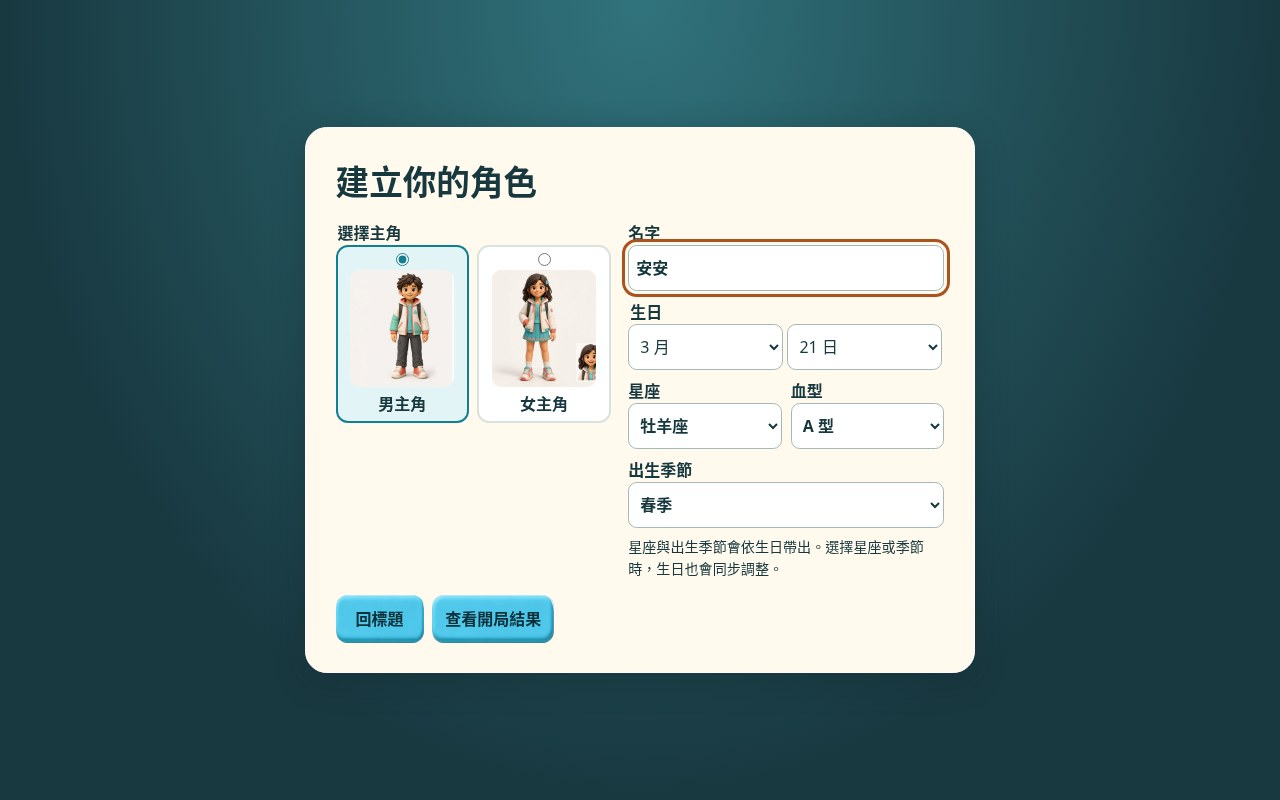
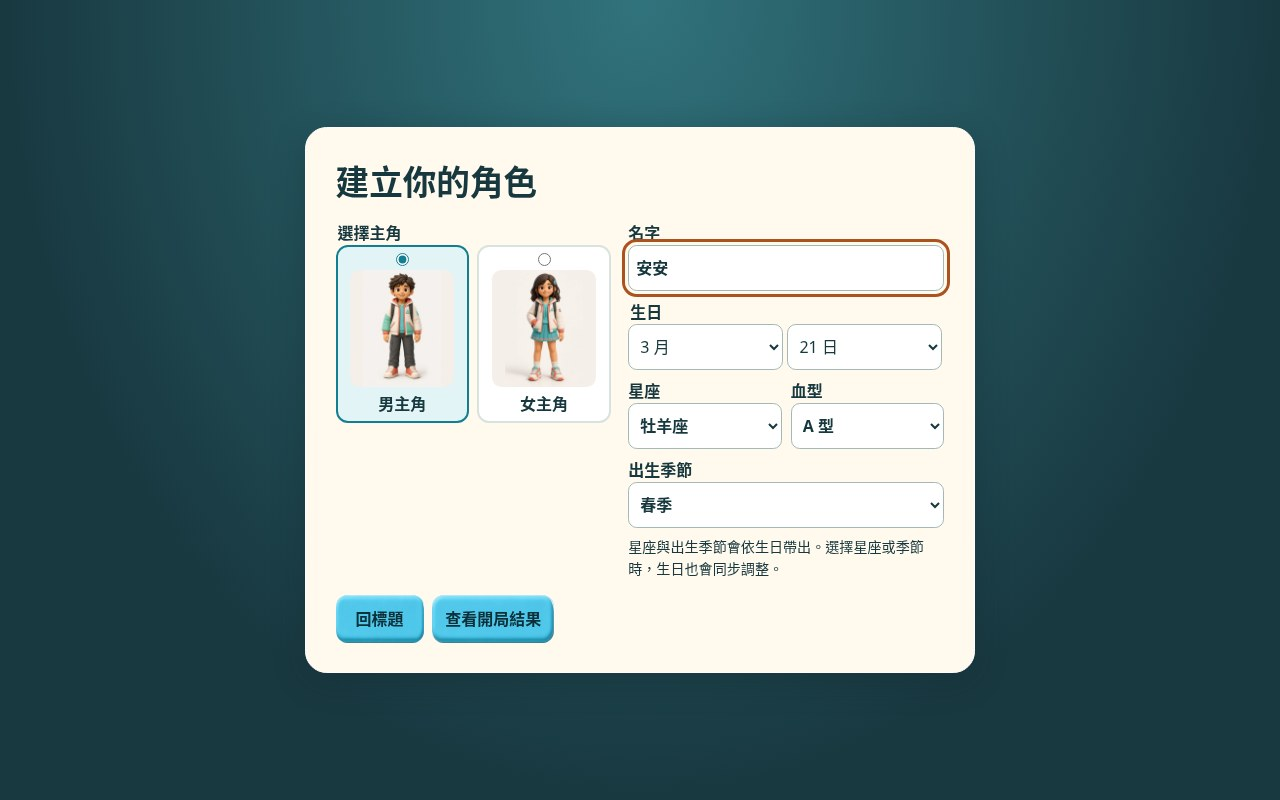
Step 16｜修正桌面開局測試與國中立繪裁切

Changed region(s): [[0.4062, 0.3438, 0.4688, 0.5], [0.2812, 0.3438, 0.3438, 0.4688]]

diff --git a/tests/browser/story.spec.ts b/tests/browser/story.spec.ts
@@ -96,17 +96,19 @@ for (const [direction, width, height] of [
       await page.getByLabel("名字").fill("安安");
       await expect(page.locator(".hero-options img").nth(0)).toHaveAttribute(
         "src",
-        /hero_boy_junior_final/,
+        /hero_boy_junior_final-portrait/,
       );
       await expect(page.locator(".hero-options img").nth(1)).toHaveAttribute(
         "src",
-        /hero_girl_junior_final/,
+        /hero_girl_junior_final-portrait/,
       );
+      const gender = direction === "portrait" ? "girl" : "boy";
+      await page.locator(`[name="gender"][value="${gender}"]`).check();
       await capture(page, "setup", direction);
       await page.getByRole("button", { name: "查看開局結果" }).click();
       await expect(page.locator(".character .portrait img")).toHaveAttribute(
         "src",
-        /hero_boy_junior_final/,
+        new RegExp(`hero_${gender}_junior_final-portrait`),
       );
       await capture(page, "confirm-opening", direction);
       await page.getByRole("button", { name: "確認開局" }).click();

diff --git a/src/assets.ts b/src/assets.ts
@@ -3,8 +3,8 @@ import titleLandscape from "../art/title_kv_landscape_final.jpg";
 import titlePortrait from "../art/title_kv_portrait_final.jpg";
 import logo from "../art/logo_final.jpg";
 import button from "../art/button_states_final.jpg";
-import boyJunior from "../art/hero_boy_junior_final.jpg";
-import girlJunior from "../art/hero_girl_junior_final.jpg";
+import boyJunior from "../art/hero_boy_junior_final-portrait.jpg";
+import girlJunior from "../art/hero_girl_junior_final-portrait.jpg";
 
 export const assets = {
   title: { landscape: titleLandscape, portrait: titlePortrait },

diff --git a/src/style.css b/src/style.css
@@ -247,11 +247,9 @@ select {
   background: #f4efe9;
 }
 .portrait img {
-  position: absolute;
-  width: 200%;
+  display: block;
+  width: 100%;
   height: 100%;
-  max-width: none;
-  left: 0;
   object-fit: contain;
 }
 .character {
